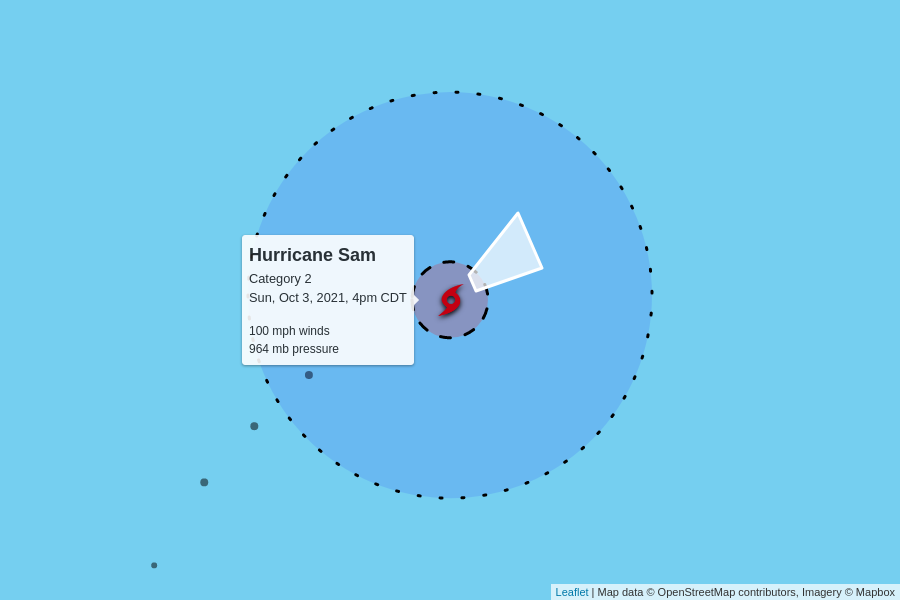
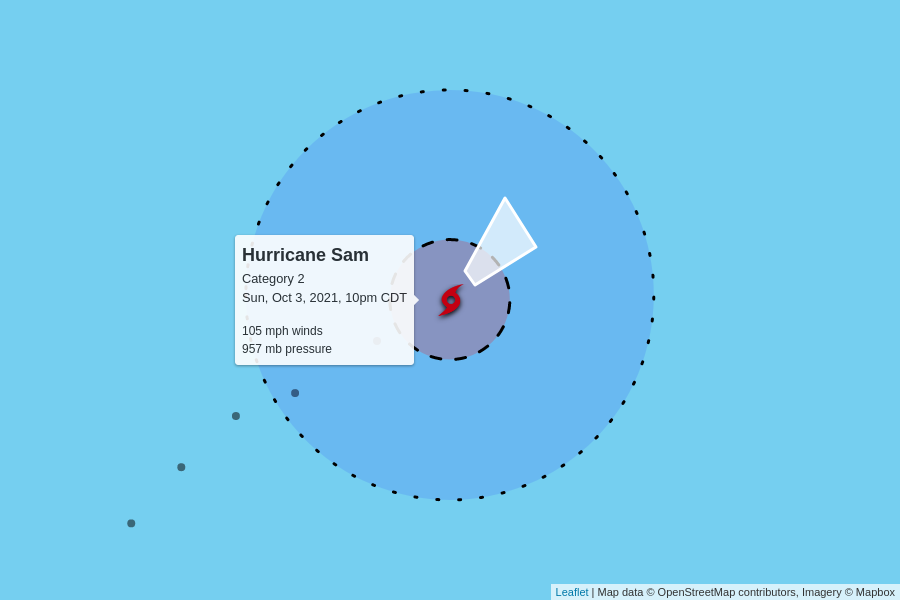
automatic update

diff --git a/docs/index.html b/docs/index.html
@@ -100,7 +100,7 @@
         <td colspan="6" class="storm category-2" >
           <h2>
             Hurricane Sam - Category 2
-            <p class="updated">last updated <span data-time>2021-10-03T21:00:00.000Z</span></p>
+            <p class="updated">last updated <span data-time>2021-10-04T03:00:00.000Z</span></p>
           </h2>
         </td>
       </tr>
@@ -115,12 +115,12 @@
       </tr>
       <tr>
         <td class="spacer"></td>
-        <td>100 mph</td>
-        <td>964 mb</td>
+        <td>105 mph</td>
+        <td>957 mb</td>
         <td>
-          16 mph to the east-northeast
+          20 mph to the northeast
           <br/>
-          <span style="display: inline-block; font-size: 1.5em; transform: rotate(60deg);">↑</span>
+          <span style="display: inline-block; font-size: 1.5em; transform: rotate(50deg);">↑</span>
         </td>
         <td><a href="https://raw.githubusercontent.com/mgwalker/atlantic-hurricanes/main/data/csv/AL182021.csv">AL182021.csv</a></td>
         <td><a href="https://www.nhc.noaa.gov/archive/2021/SAM.shtml?">NHC advisories</a></td>
